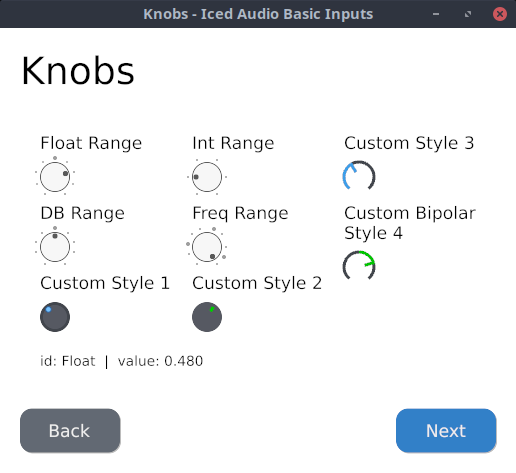
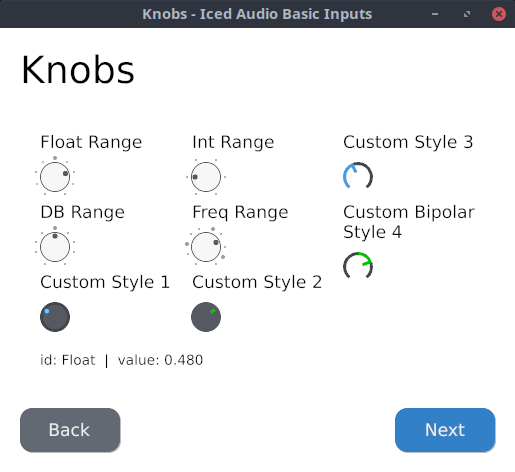
fixed the size of the arc style for the Knob widget

diff --git a/src/wgpu/knob.rs b/src/wgpu/knob.rs
@@ -5,14 +5,14 @@
 use crate::core::{Normal, TickMarkGroup, TickMarkTier};
 use crate::native::knob;
 use iced_native::{Background, Color, MouseCursor, Point, Rectangle, Vector};
-use iced_wgpu::widget::canvas::{Frame, LineCap, Path, Stroke, path::Arc};
+use iced_wgpu::widget::canvas::{path::Arc, Frame, LineCap, Path, Stroke};
 use iced_wgpu::{Primitive, Renderer};
 
 pub use crate::native::knob::State;
 pub use crate::style::knob::{
-    CircleTickMarks, LineTickMarks, Style, StyleSheet, TickMarkStyle,
-    VectorCircleStyle, VectorLineStyle, ArcStyle, ArcNotch, ArcBipolarStyle,
-    ArcBipolarNotch,
+    ArcBipolarNotch, ArcBipolarStyle, ArcNotch, ArcStyle, CircleTickMarks,
+    LineTickMarks, Style, StyleSheet, TickMarkStyle, VectorCircleStyle,
+    VectorLineStyle,
 };
 
 /// This is an alias of a `crate::native` [`Knob`] with an
@@ -352,8 +352,9 @@ impl knob::Renderer for Renderer {
 
             Style::Arc(style) => {
                 let radius = bounds_size / 2.0;
-                
-                let mut start_angle = angle_range.min() + std::f32::consts::FRAC_PI_2;
+
+                let mut start_angle =
+                    angle_range.min() + std::f32::consts::FRAC_PI_2;
                 if start_angle >= crate::TAU {
                     start_angle -= crate::TAU
                 }
@@ -364,6 +365,7 @@ impl knob::Renderer for Renderer {
 
                 let arc: Primitive = {
                     let center_point = Point::new(radius, radius);
+                    let arc_radius = radius - (style.arc_width * 0.5);
 
                     let filled_stroke = Stroke {
                         width: style.arc_width,
@@ -374,14 +376,12 @@ impl knob::Renderer for Renderer {
 
                     let filled_arc = Arc {
                         center: center_point,
-                        radius,
+                        radius: arc_radius,
                         start_angle,
                         end_angle: fill_angle_span,
                     };
 
-                    let filled_path = Path::new(|path| {
-                        path.arc(filled_arc)
-                    });
+                    let filled_path = Path::new(|path| path.arc(filled_arc));
 
                     let empty_stroke = Stroke {
                         width: style.arc_width,
@@ -392,26 +392,23 @@ impl knob::Renderer for Renderer {
 
                     let empty_arc = Arc {
                         center: center_point,
-                        radius,
+                        radius: arc_radius,
                         start_angle: start_angle + fill_angle_span,
                         end_angle: angle_span - fill_angle_span,
                     };
 
-                    let empty_path = Path::new(|path| {
-                        path.arc(empty_arc)
-                    });
+                    let empty_path = Path::new(|path| path.arc(empty_arc));
 
                     let mut frame = Frame::new(bounds_size, bounds_size);
-                    frame.translate(Vector::new(
-                        bounds_x,
-                        bounds_y,
-                    ));
+                    frame.translate(Vector::new(bounds_x, bounds_y));
 
                     frame.stroke(&filled_path, filled_stroke);
                     frame.stroke(&empty_path, empty_stroke);
 
                     if let Some(notch) = style.notch {
-                        let angle = start_angle + fill_angle_span + std::f32::consts::FRAC_PI_2;
+                        let angle = start_angle
+                            + fill_angle_span
+                            + std::f32::consts::FRAC_PI_2;
 
                         let stroke = Stroke {
                             width: notch.width,
@@ -419,24 +416,22 @@ impl knob::Renderer for Renderer {
                             line_cap: LineCap::Square,
                             ..Stroke::default()
                         };
-    
-                        let stroke_begin_y = -radius;
-                        let notch_height = notch.length_scale.value() * radius;
-    
+
+                        let stroke_begin_y = -arc_radius;
+                        let notch_height =
+                            notch.length_scale.value() * arc_radius;
+
                         let path = Path::line(
                             Point::new(0.0, stroke_begin_y),
                             Point::new(0.0, stroke_begin_y + notch_height),
                         );
-                        
-                        frame.translate(Vector::new(
-                            radius,
-                            radius,
-                        ));
-    
+
+                        frame.translate(Vector::new(radius, radius));
+
                         if angle < -0.001 || angle > 0.001 {
                             frame.rotate(angle);
                         }
-    
+
                         frame.stroke(&path, stroke);
                     }
 
@@ -453,8 +448,9 @@ impl knob::Renderer for Renderer {
 
             Style::ArcBipolar(style) => {
                 let radius = bounds_size / 2.0;
-                
-                let mut start_angle = angle_range.min() + std::f32::consts::FRAC_PI_2;
+
+                let mut start_angle =
+                    angle_range.min() + std::f32::consts::FRAC_PI_2;
                 if start_angle >= crate::TAU {
                     start_angle -= crate::TAU
                 }
@@ -465,10 +461,7 @@ impl knob::Renderer for Renderer {
 
                 let arc: Primitive = {
                     let mut frame = Frame::new(bounds_size, bounds_size);
-                    frame.translate(Vector::new(
-                        bounds_x,
-                        bounds_y,
-                    ));
+                    frame.translate(Vector::new(bounds_x, bounds_y));
 
                     let empty_stroke = Stroke {
                         width: style.arc_width,
@@ -478,32 +471,29 @@ impl knob::Renderer for Renderer {
                     };
 
                     let center_point = Point::new(radius, radius);
+                    let arc_radius = radius - (style.arc_width * 0.5);
 
                     if normal.value() == 0.5 {
                         let empty_arc = Arc {
                             center: center_point,
-                            radius,
+                            radius: arc_radius,
                             start_angle,
                             end_angle: angle_span,
                         };
-    
-                        let empty_path = Path::new(|path| {
-                            path.arc(empty_arc)
-                        });
-    
-                        frame.stroke(&empty_path, empty_stroke);
 
+                        let empty_path = Path::new(|path| path.arc(empty_arc));
+
+                        frame.stroke(&empty_path, empty_stroke);
                     } else if normal.value() < 0.5 {
                         let empty_arc_1 = Arc {
                             center: center_point,
-                            radius,
+                            radius: arc_radius,
                             start_angle,
                             end_angle: fill_angle_span,
                         };
-    
-                        let empty_path_1 = Path::new(|path| {
-                            path.arc(empty_arc_1)
-                        });
+
+                        let empty_path_1 =
+                            Path::new(|path| path.arc(empty_arc_1));
 
                         let filled_stroke = Stroke {
                             width: style.arc_width,
@@ -511,44 +501,40 @@ impl knob::Renderer for Renderer {
                             line_cap: LineCap::Butt,
                             ..Stroke::default()
                         };
-    
+
                         let filled_arc = Arc {
                             center: center_point,
-                            radius,
+                            radius: arc_radius,
                             start_angle: start_angle + fill_angle_span,
                             end_angle: (angle_span * 0.5) - fill_angle_span,
                         };
-    
-                        let filled_path = Path::new(|path| {
-                            path.arc(filled_arc)
-                        });
-    
+
+                        let filled_path =
+                            Path::new(|path| path.arc(filled_arc));
+
                         let empty_arc_2 = Arc {
                             center: center_point,
-                            radius,
+                            radius: arc_radius,
                             start_angle: start_angle + (angle_span * 0.5),
                             end_angle: (angle_span * 0.5),
                         };
-    
-                        let empty_path_2 = Path::new(|path| {
-                            path.arc(empty_arc_2)
-                        });
-    
+
+                        let empty_path_2 =
+                            Path::new(|path| path.arc(empty_arc_2));
+
                         frame.stroke(&empty_path_1, empty_stroke);
                         frame.stroke(&filled_path, filled_stroke);
                         frame.stroke(&empty_path_2, empty_stroke);
-
                     } else {
                         let empty_arc_1 = Arc {
                             center: center_point,
-                            radius,
+                            radius: arc_radius,
                             start_angle,
                             end_angle: (angle_span * 0.5),
                         };
-    
-                        let empty_path_1 = Path::new(|path| {
-                            path.arc(empty_arc_1)
-                        });
+
+                        let empty_path_1 =
+                            Path::new(|path| path.arc(empty_arc_1));
 
                         let filled_stroke = Stroke {
                             width: style.arc_width,
@@ -556,29 +542,27 @@ impl knob::Renderer for Renderer {
                             line_cap: LineCap::Butt,
                             ..Stroke::default()
                         };
-    
+
                         let filled_arc = Arc {
                             center: center_point,
-                            radius,
+                            radius: arc_radius,
                             start_angle: start_angle + (angle_span * 0.5),
                             end_angle: fill_angle_span - (angle_span * 0.5),
                         };
-    
-                        let filled_path = Path::new(|path| {
-                            path.arc(filled_arc)
-                        });
-    
+
+                        let filled_path =
+                            Path::new(|path| path.arc(filled_arc));
+
                         let empty_arc_2 = Arc {
                             center: center_point,
-                            radius,
+                            radius: arc_radius,
                             start_angle: start_angle + fill_angle_span,
                             end_angle: angle_span - fill_angle_span,
                         };
-    
-                        let empty_path_2 = Path::new(|path| {
-                            path.arc(empty_arc_2)
-                        });
-    
+
+                        let empty_path_2 =
+                            Path::new(|path| path.arc(empty_arc_2));
+
                         frame.stroke(&empty_path_1, empty_stroke);
                         frame.stroke(&filled_path, filled_stroke);
                         frame.stroke(&empty_path_2, empty_stroke);
@@ -595,7 +579,9 @@ impl knob::Renderer for Renderer {
                             }
                         };
 
-                        let angle = start_angle + fill_angle_span + std::f32::consts::FRAC_PI_2;
+                        let angle = start_angle
+                            + fill_angle_span
+                            + std::f32::consts::FRAC_PI_2;
 
                         let stroke = Stroke {
                             width: notch.width,
@@ -603,24 +589,22 @@ impl knob::Renderer for Renderer {
                             line_cap: LineCap::Square,
                             ..Stroke::default()
                         };
-    
-                        let stroke_begin_y = -radius;
-                        let notch_height = notch.length_scale.value() * radius;
-    
+
+                        let stroke_begin_y = -arc_radius;
+                        let notch_height =
+                            notch.length_scale.value() * arc_radius;
+
                         let path = Path::line(
                             Point::new(0.0, stroke_begin_y),
                             Point::new(0.0, stroke_begin_y + notch_height),
                         );
-                        
-                        frame.translate(Vector::new(
-                            radius,
-                            radius,
-                        ));
-    
+
+                        frame.translate(Vector::new(radius, radius));
+
                         if angle < -0.001 || angle > 0.001 {
                             frame.rotate(angle);
                         }
-    
+
                         frame.stroke(&path, stroke);
                     }
 

diff --git a/examples/basic_inputs_steps/step_knobs.rs b/examples/basic_inputs_steps/step_knobs.rs
@@ -324,7 +324,7 @@ impl KnobStep {
                     .push(Text::new("DB Range"))
                     .push(knob_db)
                     .push(Text::new("Custom Style 1"))
-                    .push(knob_style1)
+                    .push(knob_style1),
             )
             .push(
                 Column::new()
@@ -335,7 +335,7 @@ impl KnobStep {
                     .push(Text::new("Freq Range"))
                     .push(knob_freq)
                     .push(Text::new("Custom Style 2"))
-                    .push(knob_style2)
+                    .push(knob_style2),
             )
             .push(
                 Column::new()
@@ -344,7 +344,7 @@ impl KnobStep {
                     .push(Text::new("Custom Style 3"))
                     .push(knob_style3)
                     .push(Text::new("Custom Bipolar Style 4"))
-                    .push(knob_style4)
+                    .push(knob_style4),
             );
 
         let content = Column::new()
